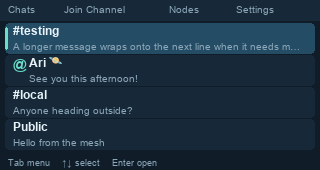
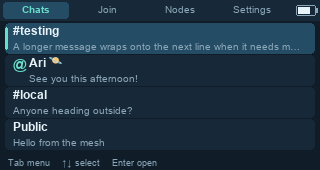
feat: add active centered tabs and compact battery indicator

diff --git a/meshcore_zero/ui.py b/meshcore_zero/ui.py
@@ -39,6 +39,7 @@ class UI:
         self.update_message = ''
         self.password = ''
         self.restart_requested = False
+        self.battery = None
 
     def notice(self, text):
         self.toast, self.toast_until = text, time.monotonic() + 4
@@ -48,7 +49,7 @@ class UI:
         return (self.store.db.total_changes, self.screen, self.menu, self.selected,
             self.chat['id'] if self.chat else None, self.draft if include_draft else None, self.scroll,
             self.toast if time.monotonic() < self.toast_until else '',
-            self.update_state, self.update_message, len(self.password),
+            self.update_state, self.update_message, len(self.password), self.battery,
             self.backend.state if self.backend else '',
             self.backend.error if self.backend else '')
 
@@ -281,11 +282,7 @@ class UI:
         d = ImageDraw.Draw(img)
         def text(x, y, value, color=TEXT, size=12, bold=False, width=304):
             return self.text.draw(img,(x,y),value,color,size,bold,width)
-        d.rectangle((0,0,319,20), fill=PANEL)
-        for i, (x, title) in enumerate([(8,'Chats'),(64,'Join Channel'),(169,'Nodes'),(236,'Settings')]):
-            if i == self.menu:
-                d.rounded_rectangle((x-4,2,x + [45,96,57,72][i],19),3, fill=SELECT)
-            text(x,3,title,ACCENT if i==self.menu else MUTED,10,bold=i==self.menu)
+        self.draw_tabs(img)
         hint = 'Tab menu    ↑↓ select    Enter open'
         if self.screen == 'inbox':
             chats = self.store.chats()
@@ -377,7 +374,7 @@ class UI:
                         x=text(x,37+i*13,value,color,11,width=310-x)
             if not history: text(10,58,'Start the conversation.',MUTED,12)
             self.draw_composer(img)
-            hint='Enter send  ↑↓ history   Grey: no echo   Esc back'
+            hint='Enter send    ↑↓ history    Esc back'
             self.store.read(self.chat['id'])
         d.rectangle((0,154,319,169),fill=BG)
         text(8,157,hint,MUTED,9)
@@ -386,6 +383,34 @@ class UI:
             self._chat_cache_key=self.render_key(False)
             self._chat_cache=img.copy()
         return img
+
+    def active_tab(self):
+        if self.screen in ('inbox','chat'): return 0
+        if self.screen == 'join': return 1
+        if self.screen == 'nodes': return 2
+        return 3
+
+    def draw_tabs(self,img):
+        d=ImageDraw.Draw(img)
+        d.rectangle((0,0,319,20),fill=PANEL)
+        active=self.active_tab()
+        for i,title in enumerate(('Chats','Join','Nodes','Settings')):
+            left=i*72
+            selected=i==active
+            bounds=(left+3,2,left+68,18)
+            if selected: d.rounded_rectangle(bounds,3,fill=SELECT)
+            if i==self.menu: d.rounded_rectangle(bounds,3,outline=ACCENT)
+            width=self.text.width(title,10,selected)
+            self.text.draw(img,(left+(72-width)/2,3),title,
+                ACCENT if selected else MUTED,10,selected,width=66)
+        # Fuel-gauge capacity only: never infer a charge level from voltage.
+        d.rounded_rectangle((296,5,315,15),2,outline=MUTED)
+        d.rectangle((316,8,317,12),fill=MUTED)
+        if self.battery is None:
+            d.line((303,10,308,10),fill=MUTED)
+        else:
+            fill=round(16*max(0,min(100,self.battery))/100)
+            if fill: d.rectangle((298,7,297+fill,13),fill=TEXT)
 
     def draw_composer(self,img):
         from .text import units

diff --git a/tests/test_tabs_battery.py b/tests/test_tabs_battery.py
@@ -1,0 +1,56 @@
+import tempfile
+from pathlib import Path
+import unittest
+from unittest.mock import patch
+from meshcore_zero.battery import read_capacity
+from meshcore_zero.store import Store
+from meshcore_zero.ui import UI, SELECT, TEXT
+
+class BatteryTests(unittest.TestCase):
+    def test_capacity_from_battery_only_and_unavailable_is_unknown(self):
+        with tempfile.TemporaryDirectory() as tmp:
+            root=Path(tmp);usb=root/'a-usb';usb.mkdir()
+            (usb/'type').write_text('USB\n');(usb/'capacity').write_text('100')
+            self.assertIsNone(read_capacity(root))
+            battery=root/'gauge';battery.mkdir();(battery/'type').write_text('Battery\n')
+            for value,expected in [('0',0),('42\n',42),('100',100),('101',None),('-1',None),('unknown',None)]:
+                (battery/'capacity').write_text(value)
+                self.assertEqual(read_capacity(root),expected)
+            (battery/'capacity').unlink();self.assertIsNone(read_capacity(root))
+        self.assertIsNone(read_capacity(root))
+
+class TabTests(unittest.TestCase):
+    def setUp(self):
+        self.tmp=tempfile.TemporaryDirectory();self.addCleanup(self.tmp.cleanup)
+        self.store=Store(self.tmp.name);self.addCleanup(self.store.db.close)
+        self.ui=UI(self.store)
+
+    def test_current_section_highlight_in_nested_screens_and_centered_titles(self):
+        for screen,index in [('inbox',0),('chat',0),('join',1),('nodes',2),('settings',3),('name',3),('regions',3),('update',3)]:
+            self.ui.screen=screen
+            self.assertEqual(self.ui.active_tab(),index)
+        self.ui.screen='inbox'
+        with patch.object(self.ui.text,'draw',wraps=self.ui.text.draw) as draw:
+            frame=self.ui.render()
+        labels=[c for c in draw.call_args_list if c.args[2] in ('Chats','Join','Nodes','Settings')]
+        self.assertEqual([c.args[2] for c in labels],['Chats','Join','Nodes','Settings'])
+        for index,call in enumerate(labels):
+            width=self.ui.text.width(call.args[2],10,index==0)
+            self.assertAlmostEqual(call.args[1][0]+width/2,index*72+36)
+        self.assertEqual(frame.getpixel((4,10)),tuple(bytes.fromhex(SELECT[1:])))
+
+    def test_battery_fill_and_chat_cache_track_live_charge_without_sysfs_reads(self):
+        self.ui.open_chat(self.store.chats()[0]);self.ui.battery=25
+        first=self.ui.render();first_key=self.ui.render_key()
+        self.ui.battery=100;second=self.ui.render()
+        self.assertNotEqual(first_key,self.ui.render_key())
+        def count(frame):
+            color=tuple(bytes.fromhex(TEXT[1:]))
+            return sum(frame.getpixel((x,y))==color for x in range(298,314) for y in range(7,14))
+        self.assertGreater(count(second),count(first))
+        self.ui.battery=None;self.assertEqual(count(self.ui.render()),0)
+        with patch('meshcore_zero.battery.read_capacity',side_effect=AssertionError('Rendering must not poll hardware')):
+            with patch.object(self.ui.text,'draw',wraps=self.ui.text.draw) as draw:
+                self.ui._chat_cache_key=None;self.ui.render()
+            values=[c.args[2] for c in draw.call_args_list]
+            self.assertFalse(any('Grey:' in s or 'no echo' in s or '%' in s for s in values))

diff --git a/meshcore_zero/battery.py b/meshcore_zero/battery.py
@@ -1,0 +1,24 @@
+"""Read the kernel fuel gauge away from the keyboard/rendering event loop."""
+import asyncio
+from pathlib import Path
+
+
+def read_capacity(root=Path('/sys/class/power_supply')):
+    try:
+        supplies=sorted(root.iterdir())
+    except OSError:
+        return None
+    for supply in supplies:
+        try:
+            if (supply/'type').read_text().strip()!='Battery': continue
+            capacity=int((supply/'capacity').read_text().strip())
+            if 0<=capacity<=100: return capacity
+        except (OSError,ValueError):
+            continue
+    return None
+
+
+async def monitor(ui):
+    while True:
+        ui.battery=await asyncio.to_thread(read_capacity)
+        await asyncio.sleep(15)

diff --git a/meshcore_zero/__main__.py b/meshcore_zero/__main__.py
@@ -42,6 +42,10 @@ async def run(args):
         loop.add_reader(keyboard.fd,input_ready.set)
         fb.write(ui.render())  # Show the inbox before starting the radio.
         startup=asyncio.create_task(backend.start())
+        from .battery import monitor
+        battery_task=asyncio.create_task(monitor(ui))
+        ui.tasks.add(battery_task)
+        battery_task.add_done_callback(ui.tasks.discard)
         previous=None
         started=loop.time()
         while ui.running and (not args.duration or loop.time()-started<args.duration):

diff --git a/scripts/render_previews.py b/scripts/render_previews.py
@@ -29,6 +29,7 @@ def main():
                 store.bind_tx(mid,'synthetic-preview')
                 store.heard('synthetic-preview',1)
         ui=UI(store)
+        ui.battery=75
         (ROOT/'screenshots').mkdir(exist_ok=True)
         ui.render().save(ROOT/'screenshots/inbox.png')
         ui.open_chat(next(c for c in store.chats() if c['id']=='#testing'))

diff --git a/meshcore_zero/__init__.py b/meshcore_zero/__init__.py
@@ -1,2 +1,2 @@
 """Standalone MeshCore client for Cardputer Zero."""
-__version__ = "0.1.10"
+__version__ = "0.1.11"

diff --git a/README.md b/README.md
@@ -44,12 +44,12 @@ your local identity, channels, and messages.
 
 ## Using MeshCore
 
-- **Tab** cycles through Chats, Join Channel, Nodes, and Settings; **Enter** opens.
+- **Tab** cycles through Chats, Join, Nodes, and Settings; **Enter** opens.
 - **Up/Down** selects a conversation or scrolls chat history. Use the keyboard's
   Fn arrow combinations where necessary.
 - Type in a conversation and press **Enter** to send.
 - **Escape** returns to Chats; Escape again exits to the launcher.
-- **Join Channel** opens with `#` already entered. Type the channel name;
+- **Join** opens with `#` already entered. Type the channel name;
   entering another leading `#` is harmless.
 - **Nodes** lists discovered nodes. Select a chat node and press Enter to start
   a direct message. Infrastructure nodes remain visible in the list.

diff --git a/CHANGELOG.md b/CHANGELOG.md
@@ -1,5 +1,13 @@
 # Changelog
 
+## 0.1.11 — 2026-11-18
+
+- Compact, centered Chats / Join / Nodes / Settings tabs with the current section highlighted.
+- Show a fuel-gauge battery icon at the top right, without percentage text.
+- Poll battery state away from keyboard handling to keep typing responsive.
+- Remove the grey/no-echo legend from the chat footer.
+
+
 ## 0.1.10 — 2026-11-18
 
 - Scrollable regional radio picker with experimental Japan and additional community presets.
